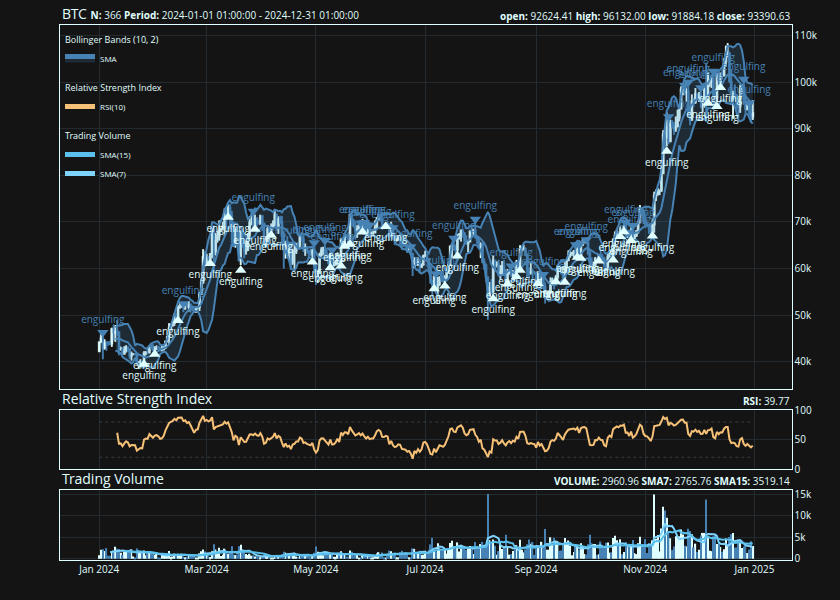
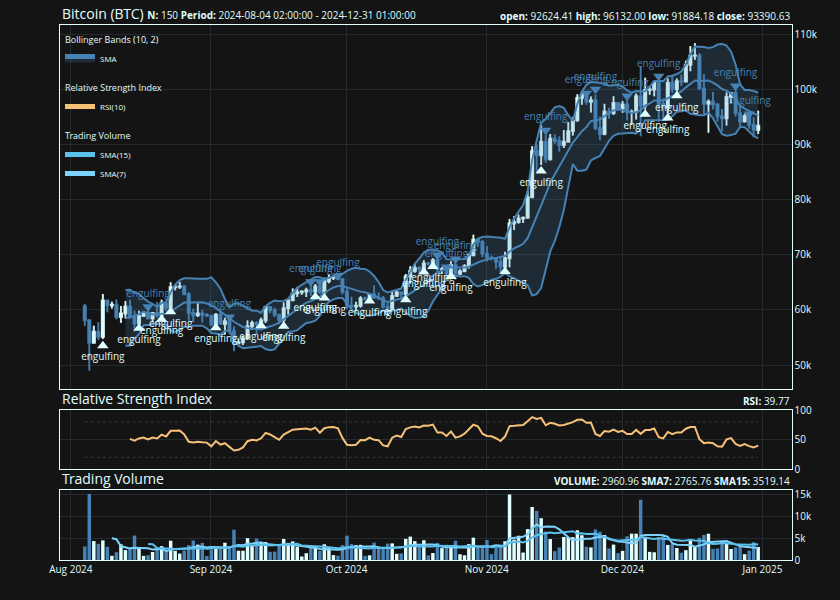
:books: Additional changes to README (from 1648f2202a21d6b73628a5a9ee497e2b89727cc3)
* Autogenerated indicator counters
* Added comments on code
* Displayed backends and themes

diff --git a/README.md b/README.md
@@ -32,9 +32,19 @@ ecosystem.
 
 ``` r
 {
-    talib::chart(talib::BTC)
+    ## create a candlestick chart
+    talib::chart(BTC, title = "Bitcoin (BTC)")
+
+    ## overlay Bollinger Bands on
+    ## the price panel
     talib::indicator(talib::bollinger_bands)
-    talib::indicator(talib::engulfing, data = talib::BTC)
+
+    ## mark Engulfing candlestick
+    ## patterns on the chart
+    talib::indicator(talib::engulfing, data = BTC)
+
+    ## add RSI and volume as
+    ## separate sub-panels
     talib::indicator(talib::RSI)
     talib::indicator(talib::trading_volume)
 }
@@ -49,8 +59,10 @@ or `matrix` and get the same type back. The return type always matches
 the input.
 
 ``` r
+## compute Bollinger Bands
+## on BTC OHLCV data
 tail(
-    talib::bollinger_bands(talib::BTC)
+    talib::bollinger_bands(BTC)
 )
 #>                     UpperBand MiddleBand LowerBand
 #> 2024-12-26 01:00:00 104478.35   98217.88  91957.42
@@ -69,8 +81,10 @@ Three White Soldiers. Each pattern returns a normalized score: `1`
 (bullish), `-1` (bearish), or `0` (no pattern).
 
 ``` r
+## detect Engulfing patterns:
+## 1 = bullish, -1 = bearish, 0 = none
 tail(
-    talib::engulfing(talib::BTC)
+    talib::engulfing(BTC)
 )
 #>                     CDLENGULFING
 #> 2024-12-26 01:00:00           -1
@@ -90,7 +104,9 @@ MACD) get their own sub-panels.
 
 ``` r
 {
-    talib::chart(talib::BTC)
+    ## price chart with two moving
+    ## averages and MACD below
+    talib::chart(BTC)
     talib::indicator(talib::SMA, n = 7)
     talib::indicator(talib::SMA, n = 14)
     talib::indicator(talib::MACD)
@@ -103,8 +119,11 @@ Multiple indicators can share a sub-panel by passing them as calls:
 
 ``` r
 {
-    talib::chart(talib::BTC)
+    talib::chart(BTC)
     talib::indicator(talib::BBANDS)
+
+    ## pass multiple calls to combine
+    ## them on a single sub-panel
     talib::indicator(
         talib::RSI(n = 10),
         talib::RSI(n = 14),
@@ -121,7 +140,21 @@ The charting system ships with 5 built-in themes inspired by
 Switch themes with `set_theme()`. Both
 [{plotly}](https://github.com/plotly/plotly.R) (interactive, default)
 and [{ggplot2}](https://ggplot2.tidyverse.org/) (static) backends are
-supported.
+supported:
+
+``` r
+{
+    ## switch to ggplot2 backend with
+    ## the "Hawks and Doves" theme
+    talib::set_theme("hawks_and_doves")
+    talib::chart(BTC, title = "Bitcoin (BTC)")
+    talib::indicator(talib::BBANDS)
+    talib::indicator(talib::RSI)
+    talib::indicator(talib::trading_volume)
+}
+```
+
+<img src="man/figures/README-ggplot2-1.png" alt="" style="display: block; margin: auto;" />
 
 ## Column selection
 
@@ -129,7 +162,10 @@ Indicators use the columns they need automatically. When your data has
 non-standard column names, remap them with formula syntax:
 
 ``` r
+## remap 'price' to the close column
 talib::RSI(x, cols = ~price)
+
+## remap hi, lo, last to high, low, close
 talib::stochastic(x, cols = ~ hi + lo + last)
 ```
 
@@ -154,9 +190,11 @@ ecosystem:
 </div>
 
 ``` r
+## snake_case and TA-Lib aliases
+## are identical
 all.equal(
-    target = talib::bollinger_bands(talib::BTC),
-    current = talib::BBANDS(talib::BTC)
+    target = talib::bollinger_bands(BTC),
+    current = talib::BBANDS(BTC)
 )
 #> [1] TRUE
 ```
